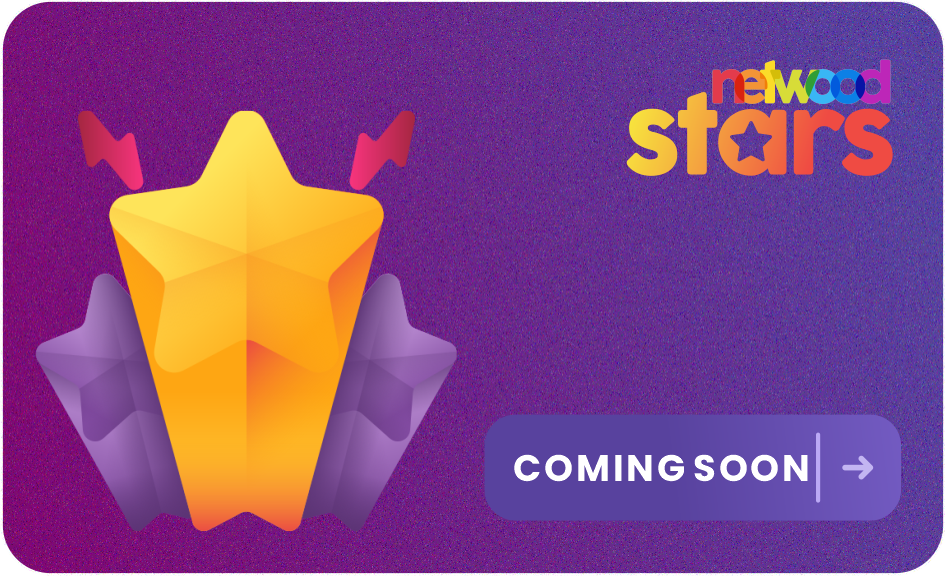
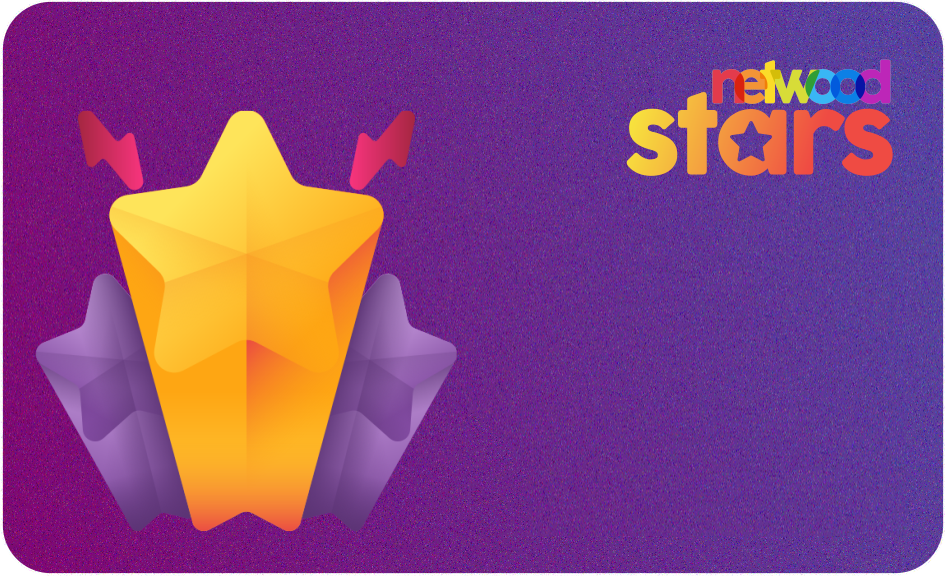
24-08-2022  16:50
Coming Soon and Launching Soon Removed
Hastag Campaign Changes

Changed region(s): [[0.4905, 0.6875, 0.981, 0.9375]]

diff --git a/src/app/home/about-newoclan/about-newoclan.component.html b/src/app/home/about-newoclan/about-newoclan.component.html
@@ -48,9 +48,9 @@
                                 <p>Content creators of copious kinds can upload their content here directly and participate in worldwide content creation. Here, we invite you to create fun videos to share with your friends or anyone present in the space.
                                     Netwood Stars allows you to record and edit mini, multi-clip videos with audio, effects, and new creative tools where the creators get to win redeemable NEWO COIN depending on views & watch hours. You can avail of this
                                     facility only if you are a part of the Newo Clan.</p>
-                                <div class="ml-txt-launch">
+                                <!-- <div class="ml-txt-launch">
                                     <p class="app-launch">Launching Soon</p>
-                                </div>
+                                </div> -->
                             </div>
                             <div class="net-ot-bg-ch">
                                 <h6>3. Newo Games</h6>
@@ -67,9 +67,9 @@
                                 <p>Now become a world-famous influencer and collaborate with your favorite brands on Newo Hashtag! For every collaboration, you will also receive interesting rewards. You can avail of this facility only if you are a part of
                                     the Newo Clan. </p>
 
-                                <div class="ml-txt-launch">
+                                <!-- <div class="ml-txt-launch">
                                     <p class="app-launch">Launching Soon</p>
-                                </div>
+                                </div> -->
                             </div>
                             <div class="ml-text">
                                 <p class="acm">

diff --git a/src/app/hashtag/campaign/campaign.component.html b/src/app/hashtag/campaign/campaign.component.html
@@ -93,6 +93,7 @@
                                     data-parent="#accordionExample">
                                     <div class="card-body">
                                         <p>{{campaign_objective}}</p>
+                                        
                                     </div>
                                 </div>
                             </div>
@@ -110,6 +111,9 @@
                                     data-parent="#accordionExample">
                                     <div class="card-body">
                                         <p>{{campaign_spl_note}}</p>
+                                        <ng-container *ngIf="campaign_description_link!='' ";>
+                                            <p><a href="{{campaign_description_link}}" target="_blank">{{campaign_description_link}}</a></p>
+                                        </ng-container>
                                     </div>
                                 </div>
                             </div>

diff --git a/src/app/hashtag/campaign/campaign.component.ts b/src/app/hashtag/campaign/campaign.component.ts
@@ -56,12 +56,15 @@ export class CampaignComponent implements OnInit {
 
       this.campaign_spl_note = result.data.campaign_details_list.campaign_spl_note;
 
+      this.campaign_description_link = result.data.campaign_details_list.campaign_description_link;
+
       this.message = result.data.message;
 
       this.results = result.data.common_cat;
 
       this.check = result.data.key;
 
+     console.log(result);
     })
 
 
